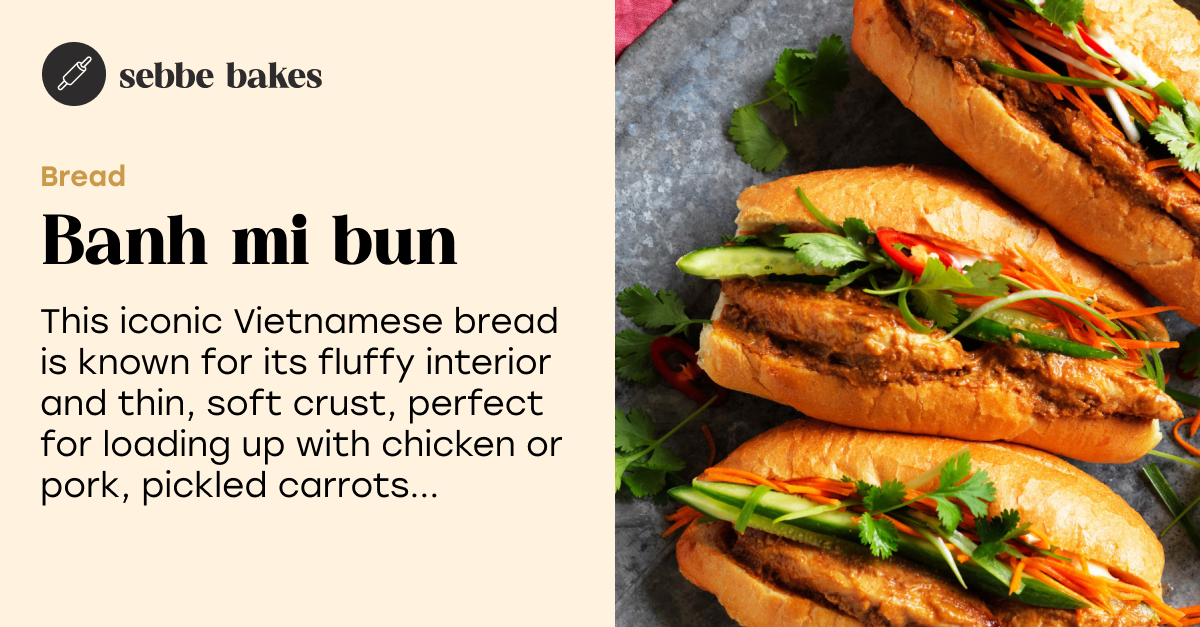
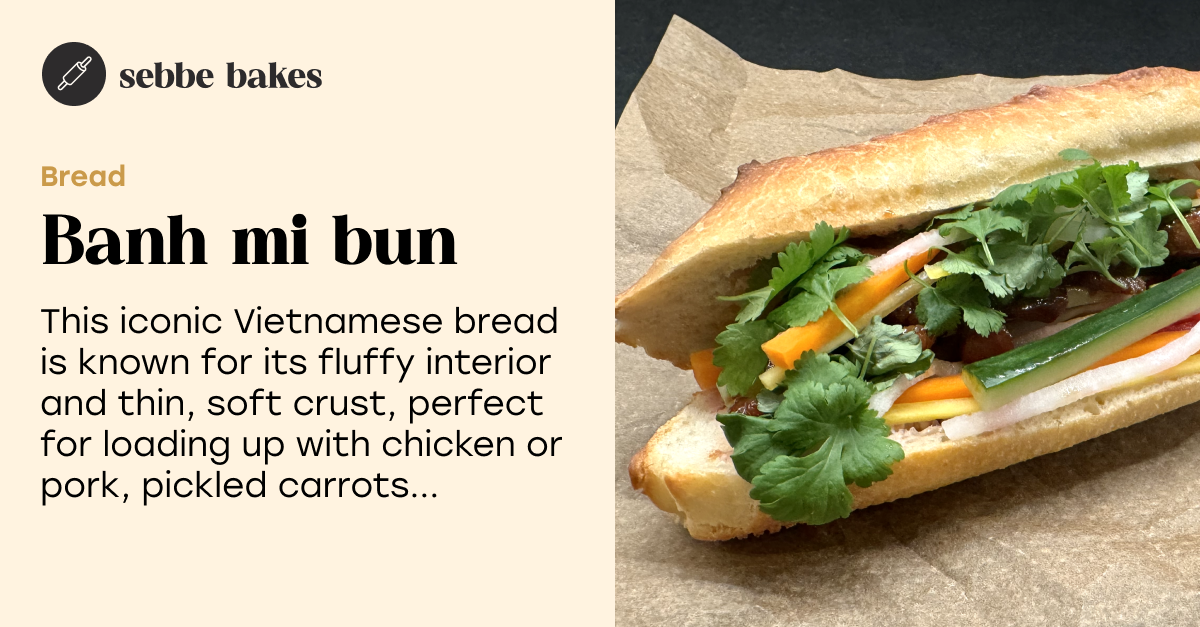
Update image assets for banh mi and sebbys

diff --git a/src/pages/pizza/sebbys.tsx b/src/pages/pizza/sebbys.tsx
@@ -10,10 +10,12 @@ import MethodImage from "components/MethodImage";
 import WindowPaneTest from "components/WindowPaneTest";
 import PokeTest from "components/PokeTest";
 
-import heroImage from "public/images/recipes/sebbys/thumbnails/tall.jpg";
+import heroImage from "public/images/recipes/sebbys/thumbnails/tall.png";
 import metaImage from "public/images/recipes/sebbys/thumbnails/meta.png";
-import finalImage from "public/images/recipes/sebbys/sebbys2.jpg";
-import shapeImage from "public/images/recipes/sebbys/shape.jpg";
+import finalImage from "public/images/recipes/sebbys/final.png";
+import shapeImage from "public/images/recipes/sebbys/pre-oven.png";
+import mirePoix from "public/images/recipes/sebbys/mirepoix.png";
+import sauce from "public/images/recipes/sebbys/sauce.png";
 import Method from "components/Method";
 
 const INGREDIENTS = [
@@ -159,7 +161,7 @@ const STEPS = [
         surface should be deeply browned (but still raw in the middle). Transfer
         the beef to another bowl.
       </Text>,
-      <Text>
+      <Text extra={<MethodImage src={mirePoix} alt="" />}>
         Wipe out any burnt meat from the pan and set it to medium heat. Add some
         olive oil and add the <b>mirepoix, garlic and mushrooms</b>. Stir until
         soft, about 3-4 minutes. Be careful not to burn the garlic.
@@ -179,7 +181,7 @@ const STEPS = [
         Add the rest of the liquids (<b>beef stock, water, canned tomatoes</b>)
         as well as the bay leaf.
       </Text>,
-      <Text>
+      <Text extra={<MethodImage src={sauce} alt="" />}>
         Let the sauce <b>cook for 90 minutes</b> without a lid. The goal is to
         get a very <em>very</em> thick sauce. You'll want to be able to scrape
         the bottom of the pan with a spatula and the sauce should not try to
@@ -295,7 +297,6 @@ const STEPS = [
       <Text
         extra={
           <>
-            <MethodImage src={heroImage} alt="Three perogis in a plate" />
             <MethodImage src={finalImage} alt="" />
           </>
         }

diff --git a/src/constants/recipes.ts b/src/constants/recipes.ts
@@ -127,9 +127,9 @@ export const RECIPES: Recipe[] = [
     url: "/pizza/sebbys",
     category: CATEGORIES.pizza,
     thumbnails: {
-      hero: require("../../public/images/recipes/sebbys/thumbnails/hero.jpg"),
-      tall: require("../../public/images/recipes/sebbys/thumbnails/tall.jpg"),
-      wide: require("../../public/images/recipes/sebbys/thumbnails/wide.jpg"),
+      hero: require("../../public/images/recipes/sebbys/thumbnails/hero.png"),
+      tall: require("../../public/images/recipes/sebbys/thumbnails/tall.png"),
+      wide: require("../../public/images/recipes/sebbys/thumbnails/wide.png"),
       square: require("../../public/images/recipes/sebbys/thumbnails/square.png"),
       meta: require("../../public/images/recipes/sebbys/thumbnails/meta.png"),
     },
@@ -183,9 +183,9 @@ export const RECIPES: Recipe[] = [
     url: "/bread/banh-mi-bun",
     category: CATEGORIES.bread,
     thumbnails: {
-      hero: require("../../public/images/bread/banh-mi-bun/thumbnails/hero.jpg"),
-      tall: require("../../public/images/bread/banh-mi-bun/thumbnails/tall.jpg"),
-      wide: require("../../public/images/bread/banh-mi-bun/thumbnails/wide.jpg"),
+      hero: require("../../public/images/bread/banh-mi-bun/thumbnails/hero.png"),
+      tall: require("../../public/images/bread/banh-mi-bun/thumbnails/tall.png"),
+      wide: require("../../public/images/bread/banh-mi-bun/thumbnails/wide.png"),
       square: require("../../public/images/bread/banh-mi-bun/thumbnails/square.png"),
       meta: require("../../public/images/bread/banh-mi-bun/thumbnails/meta.png"),
     },

diff --git a/src/pages/bread/banh-mi-bun.tsx b/src/pages/bread/banh-mi-bun.tsx
@@ -9,7 +9,7 @@ import Method from "components/Method";
 import MethodImage from "components/MethodImage";
 import PokeTest from "components/PokeTest";
 
-import heroImage from "public/images/bread/banh-mi-bun/thumbnails/tall.jpg";
+import heroImage from "public/images/bread/banh-mi-bun/thumbnails/tall.png";
 import metaImage from "public/images/bread/banh-mi-bun/thumbnails/meta.png";
 
 import image1 from "public/images/bread/banh-mi-bun/1.jpg";
@@ -21,8 +21,8 @@ import image6 from "public/images/bread/banh-mi-bun/6.jpg";
 import image7 from "public/images/bread/banh-mi-bun/7.jpg";
 import image8 from "public/images/bread/banh-mi-bun/8.jpg";
 import image9 from "public/images/bread/banh-mi-bun/9.jpg";
-import image10 from "public/images/bread/banh-mi-bun/10.jpg";
-import image11 from "public/images/bread/banh-mi-bun/11.jpg";
+import finalBread from "public/images/bread/banh-mi-bun/final-bread.png";
+import finalImage from "public/images/bread/banh-mi-bun/final.png";
 
 const INGREDIENTS = [
   {
@@ -179,8 +179,8 @@ const STEPS = [
   <Text
     extra={
       <>
-        <MethodImage src={image10} alt="" />
-        <MethodImage src={image11} alt="" />
+        <MethodImage src={finalBread} alt="" />
+        <MethodImage src={finalImage} alt="" />
       </>
     }
   >
